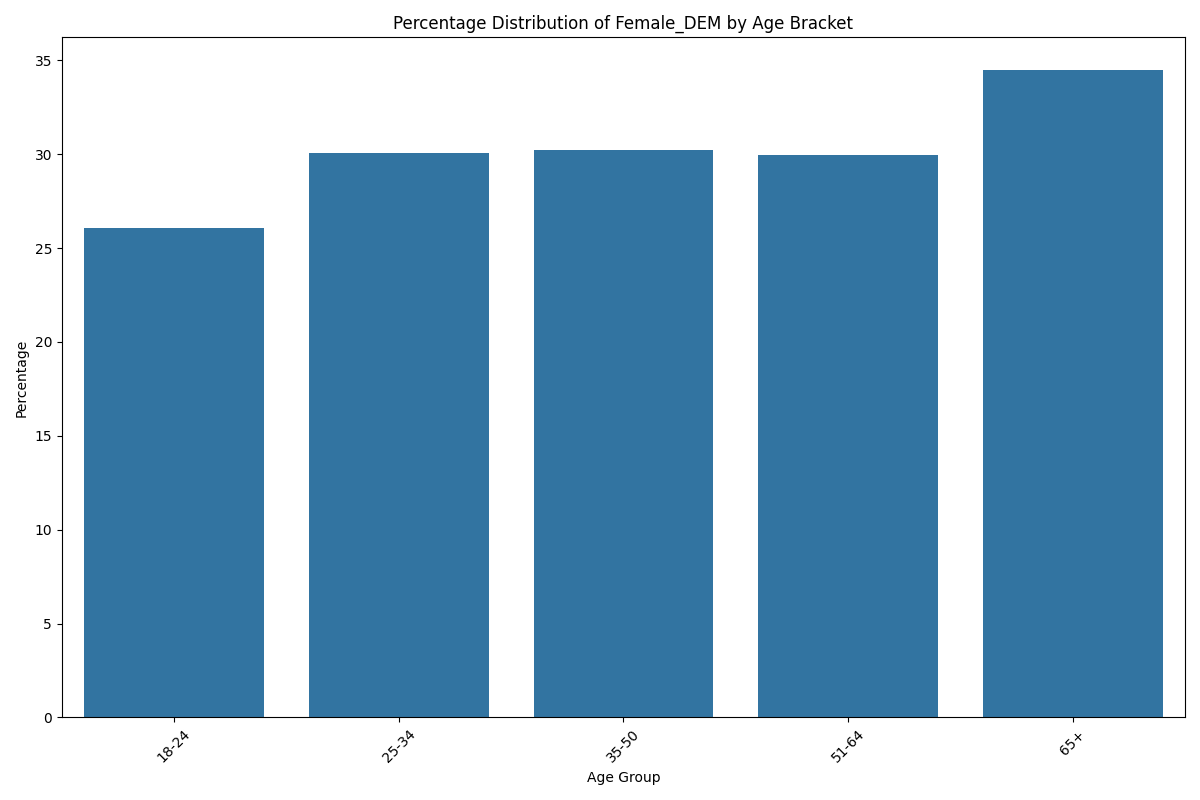
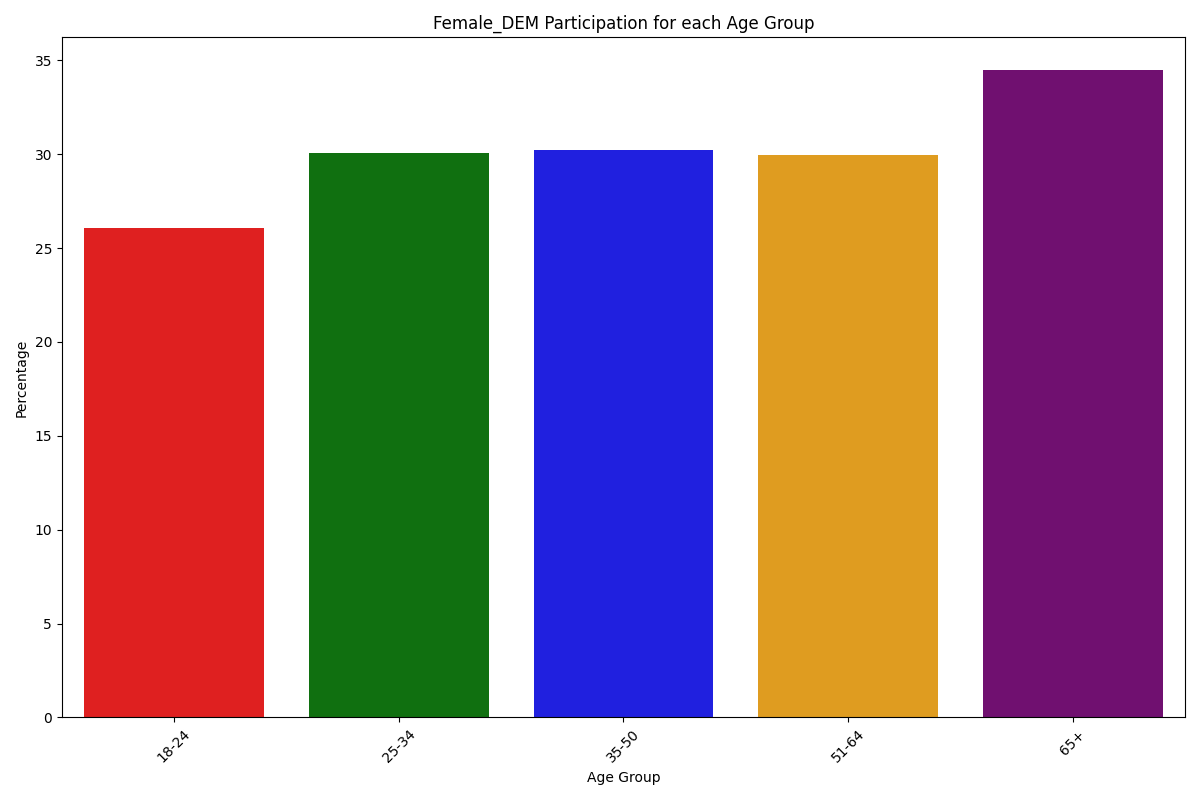
added more charts

diff --git a/voters/md_voter_file.txt/reshape_data4.py b/voters/md_voter_file.txt/reshape_data4.py
@@ -1,0 +1,78 @@
+import pandas as pd
+import matplotlib
+import matplotlib.pyplot as plt
+import seaborn as sns
+
+# Set the matplotlib backend to Agg for headless environments
+matplotlib.use('Agg')
+
+# Load the data from the CSV file
+df = pd.read_csv('agg_MD.csv')
+
+# Group the data by age bracket, gender, and party, then sum the counts
+grouped_df = df.groupby(['age_bracket', 'Gender', 'Party']).sum().reset_index()
+
+# Calculate total counts for each age bracket
+total_counts = grouped_df.groupby('age_bracket')['Count'].sum().reset_index()
+total_counts.rename(columns={'Count': 'Total'}, inplace=True)
+
+# Create a function to prepare the data for plotting
+def prepare_data(gender, parties):
+    # Filter the data for the specified gender and parties
+    filtered_df = grouped_df[
+        (grouped_df['Gender'] == gender) & (grouped_df['Party'].isin(parties))
+    ]
+
+    # Merge total counts with the filtered data
+    merged_df = pd.merge(filtered_df, total_counts, on='age_bracket')
+
+    # Calculate the percentage of each category relative to the total for each age bracket
+    merged_df['Percentage'] = (merged_df['Count'] / merged_df['Total']) * 100
+
+    # Create a new column for combined gender and party for easy plotting
+    merged_df['Category'] = merged_df['Gender'] + '_' + merged_df['Party']
+
+    return merged_df
+
+# Prepare data for each chart
+female_data = prepare_data(gender='Female', parties=['DEM', 'REP'])
+male_data = prepare_data(gender='Male', parties=['DEM', 'REP'])
+
+# Plot the data using seaborn
+plt.figure(figsize=(14, 16))
+
+# Create subplot for Female_DEM and Female_REP
+plt.subplot(2, 1, 1)
+sns.barplot(
+    data=female_data, 
+    x='age_bracket', 
+    y='Percentage', 
+    hue='Category',
+    palette={'Female_DEM': 'blue', 'Female_REP': 'red'}
+)
+plt.title('Higher Female REP and DEM Participation in Older Age Groups')
+plt.xticks(rotation=45)
+plt.ylabel('Percentage')
+plt.xlabel('Age Group')
+plt.legend(title='Category', bbox_to_anchor=(1.05, 1), loc='upper left')
+plt.tight_layout()
+
+# Create subplot for Male_DEM and Male_REP
+plt.subplot(2, 1, 2)
+sns.barplot(
+    data=male_data, 
+    x='age_bracket', 
+    y='Percentage', 
+    hue='Category',
+    palette={'Male_DEM': 'blue', 'Male_REP': 'red'}
+)
+plt.title('Balanced Male DEM and REP Participation Across Age Groups')
+plt.xticks(rotation=45)
+plt.ylabel('Percentage')
+plt.xlabel('Age Group')
+plt.legend(title='Category', bbox_to_anchor=(1.05, 1), loc='upper left')
+plt.tight_layout()
+
+# Save the plot to a file instead of displaying it
+plt.savefig('combined_gender_party_distribution_chart.png')
+print("Chart saved as 'combined_gender_party_distribution_chart.png'")

diff --git a/voters/md_voter_file.txt/reshape_data7.py b/voters/md_voter_file.txt/reshape_data7.py
@@ -16,34 +16,34 @@ grouped_df = df.groupby(['age_bracket', 'Gender', 'Party']).sum().reset_index()
 total_counts = grouped_df.groupby('age_bracket')['Count'].sum().reset_index()
 total_counts.rename(columns={'Count': 'Total'}, inplace=True)
 
-# Prepare data for Female_DEM
-female_dem_data = grouped_df[
-    (grouped_df['Gender'] == 'Female') & (grouped_df['Party'] == 'DEM')
+# Prepare data for Female_UNA
+female_una_data = grouped_df[
+    (grouped_df['Gender'] == 'Female') & (grouped_df['Party'] == 'UNA')
 ]
 
 # Merge total counts with the filtered data
-female_dem_merged = pd.merge(female_dem_data, total_counts, on='age_bracket')
+female_una_merged = pd.merge(female_una_data, total_counts, on='age_bracket')
 
-# Calculate the percentage of Female_DEM relative to the total for each age bracket
-female_dem_merged['Percentage'] = (female_dem_merged['Count'] / female_dem_merged['Total']) * 100
+# Calculate the percentage of Female_UNA relative to the total for each age bracket
+female_una_merged['Percentage'] = (female_una_merged['Count'] / female_una_merged['Total']) * 100
 
-# Define a custom color palette with distinct colors for each age group
-custom_palette = ['red', 'green', 'blue', 'orange', 'purple']
+# Define a uniform orange color palette
+uniform_palette = ['orange'] * len(female_una_merged['age_bracket'].unique())
 
 # Plot the data using seaborn
 plt.figure(figsize=(12, 8))
 sns.barplot(
-    data=female_dem_merged, 
+    data=female_una_merged, 
     x='age_bracket', 
     y='Percentage', 
-    palette=custom_palette
+    palette=uniform_palette
 )
-plt.title('Female_DEM Participation for each Age Group')
+plt.title('Female_UNA Participation in each Age Group')
 plt.xticks(rotation=45)
 plt.ylabel('Percentage')
 plt.xlabel('Age Group')
 plt.tight_layout()
 
 # Save the plot to a file instead of displaying it
-plt.savefig('female_dem_percentage_distribution_chart.png')
-print("Chart saved as 'female_dem_percentage_distribution_chart.png'")
+plt.savefig('female_una_percentage_distribution_chart.png')
+print("Chart saved as 'female_una_percentage_distribution_chart.png'")

diff --git a/voters/md_voter_file.txt/reshape_data8.py b/voters/md_voter_file.txt/reshape_data8.py
@@ -16,34 +16,34 @@ grouped_df = df.groupby(['age_bracket', 'Gender', 'Party']).sum().reset_index()
 total_counts = grouped_df.groupby('age_bracket')['Count'].sum().reset_index()
 total_counts.rename(columns={'Count': 'Total'}, inplace=True)
 
-# Prepare data for Female_DEM
-female_dem_data = grouped_df[
-    (grouped_df['Gender'] == 'Female') & (grouped_df['Party'] == 'DEM')
+# Prepare data for Male_UNA
+male_una_data = grouped_df[
+    (grouped_df['Gender'] == 'Male') & (grouped_df['Party'] == 'UNA')
 ]
 
 # Merge total counts with the filtered data
-female_dem_merged = pd.merge(female_dem_data, total_counts, on='age_bracket')
+male_una_merged = pd.merge(male_una_data, total_counts, on='age_bracket')
 
-# Calculate the percentage of Female_DEM relative to the total for each age bracket
-female_dem_merged['Percentage'] = (female_dem_merged['Count'] / female_dem_merged['Total']) * 100
+# Calculate the percentage of Male_UNA relative to the total for each age bracket
+male_una_merged['Percentage'] = (male_una_merged['Count'] / male_una_merged['Total']) * 100
 
-# Define a custom color palette with distinct colors for each age group
-custom_palette = ['red', 'green', 'blue', 'orange', 'purple']
+# Define a uniform green color palette
+uniform_palette = ['green'] * len(male_una_merged['age_bracket'].unique())
 
 # Plot the data using seaborn
 plt.figure(figsize=(12, 8))
 sns.barplot(
-    data=female_dem_merged, 
+    data=male_una_merged, 
     x='age_bracket', 
     y='Percentage', 
-    palette=custom_palette
+    palette=uniform_palette
 )
-plt.title('Female_DEM Participation for each Age Group')
+plt.title('Male_UNA Participation in each Age Group')
 plt.xticks(rotation=45)
 plt.ylabel('Percentage')
 plt.xlabel('Age Group')
 plt.tight_layout()
 
 # Save the plot to a file instead of displaying it
-plt.savefig('female_dem_percentage_distribution_chart.png')
-print("Chart saved as 'female_dem_percentage_distribution_chart.png'")
+plt.savefig('male_una_percentage_distribution_chart.png')
+print("Chart saved as 'male_una_percentage_distribution_chart.png'")

diff --git a/voters/md_voter_file.txt/reshape_data2.py b/voters/md_voter_file.txt/reshape_data2.py
@@ -16,34 +16,34 @@ grouped_df = df.groupby(['age_bracket', 'Gender', 'Party']).sum().reset_index()
 total_counts = grouped_df.groupby('age_bracket')['Count'].sum().reset_index()
 total_counts.rename(columns={'Count': 'Total'}, inplace=True)
 
-# Prepare data for Female_DEM
-female_dem_data = grouped_df[
-    (grouped_df['Gender'] == 'Female') & (grouped_df['Party'] == 'DEM')
+# Prepare data for Female_REP
+female_rep_data = grouped_df[
+    (grouped_df['Gender'] == 'Female') & (grouped_df['Party'] == 'REP')
 ]
 
 # Merge total counts with the filtered data
-female_dem_merged = pd.merge(female_dem_data, total_counts, on='age_bracket')
+female_rep_merged = pd.merge(female_rep_data, total_counts, on='age_bracket')
 
-# Calculate the percentage of Female_DEM relative to the total for each age bracket
-female_dem_merged['Percentage'] = (female_dem_merged['Count'] / female_dem_merged['Total']) * 100
+# Calculate the percentage of Female_REP relative to the total for each age bracket
+female_rep_merged['Percentage'] = (female_rep_merged['Count'] / female_rep_merged['Total']) * 100
 
 # Define a custom color palette with distinct colors for each age group
-custom_palette = ['red', 'green', 'blue', 'orange', 'purple']
+custom_palette = ['cyan', 'magenta', 'yellow', 'black', 'pink']
 
 # Plot the data using seaborn
 plt.figure(figsize=(12, 8))
 sns.barplot(
-    data=female_dem_merged, 
+    data=female_rep_merged, 
     x='age_bracket', 
     y='Percentage', 
     palette=custom_palette
 )
-plt.title('Female_DEM Participation for each Age Group')
+plt.title('Female_REP Participation for Each Age Group')
 plt.xticks(rotation=45)
 plt.ylabel('Percentage')
 plt.xlabel('Age Group')
 plt.tight_layout()
 
 # Save the plot to a file instead of displaying it
-plt.savefig('female_dem_percentage_distribution_chart.png')
-print("Chart saved as 'female_dem_percentage_distribution_chart.png'")
+plt.savefig('female_rep_percentage_distribution_chart.png')
+print("Chart saved as 'female_rep_percentage_distribution_chart.png'")

diff --git a/voters/md_voter_file.txt/reshape_data6.py b/voters/md_voter_file.txt/reshape_data6.py
@@ -16,34 +16,34 @@ grouped_df = df.groupby(['age_bracket', 'Gender', 'Party']).sum().reset_index()
 total_counts = grouped_df.groupby('age_bracket')['Count'].sum().reset_index()
 total_counts.rename(columns={'Count': 'Total'}, inplace=True)
 
-# Prepare data for Female_DEM
-female_dem_data = grouped_df[
-    (grouped_df['Gender'] == 'Female') & (grouped_df['Party'] == 'DEM')
+# Prepare data for Male_DEM
+male_dem_data = grouped_df[
+    (grouped_df['Gender'] == 'Male') & (grouped_df['Party'] == 'DEM')
 ]
 
 # Merge total counts with the filtered data
-female_dem_merged = pd.merge(female_dem_data, total_counts, on='age_bracket')
+male_dem_merged = pd.merge(male_dem_data, total_counts, on='age_bracket')
 
-# Calculate the percentage of Female_DEM relative to the total for each age bracket
-female_dem_merged['Percentage'] = (female_dem_merged['Count'] / female_dem_merged['Total']) * 100
+# Calculate the percentage of Male_DEM relative to the total for each age bracket
+male_dem_merged['Percentage'] = (male_dem_merged['Count'] / male_dem_merged['Total']) * 100
 
 # Define a custom color palette with distinct colors for each age group
-custom_palette = ['red', 'green', 'blue', 'orange', 'purple']
+custom_palette = ['violet', 'turquoise', 'salmon', 'olive', 'maroon']
 
 # Plot the data using seaborn
 plt.figure(figsize=(12, 8))
 sns.barplot(
-    data=female_dem_merged, 
+    data=male_dem_merged, 
     x='age_bracket', 
     y='Percentage', 
     palette=custom_palette
 )
-plt.title('Female_DEM Participation for each Age Group')
+plt.title('Distinct Colors for Each Age Group in Male_DEM Participation')
 plt.xticks(rotation=45)
 plt.ylabel('Percentage')
 plt.xlabel('Age Group')
 plt.tight_layout()
 
 # Save the plot to a file instead of displaying it
-plt.savefig('female_dem_percentage_distribution_chart.png')
-print("Chart saved as 'female_dem_percentage_distribution_chart.png'")
+plt.savefig('male_dem_percentage_distribution_chart.png')
+print("Chart saved as 'male_dem_percentage_distribution_chart.png'")

diff --git a/voters/md_voter_file.txt/reshape_data5.py b/voters/md_voter_file.txt/reshape_data5.py
@@ -16,34 +16,34 @@ grouped_df = df.groupby(['age_bracket', 'Gender', 'Party']).sum().reset_index()
 total_counts = grouped_df.groupby('age_bracket')['Count'].sum().reset_index()
 total_counts.rename(columns={'Count': 'Total'}, inplace=True)
 
-# Prepare data for Female_DEM
-female_dem_data = grouped_df[
-    (grouped_df['Gender'] == 'Female') & (grouped_df['Party'] == 'DEM')
+# Prepare data for Male_REP
+male_rep_data = grouped_df[
+    (grouped_df['Gender'] == 'Male') & (grouped_df['Party'] == 'REP')
 ]
 
 # Merge total counts with the filtered data
-female_dem_merged = pd.merge(female_dem_data, total_counts, on='age_bracket')
+male_rep_merged = pd.merge(male_rep_data, total_counts, on='age_bracket')
 
-# Calculate the percentage of Female_DEM relative to the total for each age bracket
-female_dem_merged['Percentage'] = (female_dem_merged['Count'] / female_dem_merged['Total']) * 100
+# Calculate the percentage of Male_REP relative to the total for each age bracket
+male_rep_merged['Percentage'] = (male_rep_merged['Count'] / male_rep_merged['Total']) * 100
 
 # Define a custom color palette with distinct colors for each age group
-custom_palette = ['red', 'green', 'blue', 'orange', 'purple']
+custom_palette = ['brown', 'teal', 'lime', 'navy', 'gold']
 
 # Plot the data using seaborn
 plt.figure(figsize=(12, 8))
 sns.barplot(
-    data=female_dem_merged, 
+    data=male_rep_merged, 
     x='age_bracket', 
     y='Percentage', 
     palette=custom_palette
 )
-plt.title('Female_DEM Participation for each Age Group')
+plt.title('Male_REP Participation in each Age Group')
 plt.xticks(rotation=45)
 plt.ylabel('Percentage')
 plt.xlabel('Age Group')
 plt.tight_layout()
 
 # Save the plot to a file instead of displaying it
-plt.savefig('female_dem_percentage_distribution_chart.png')
-print("Chart saved as 'female_dem_percentage_distribution_chart.png'")
+plt.savefig('male_rep_percentage_distribution_chart.png')
+print("Chart saved as 'male_rep_percentage_distribution_chart.png'")

diff --git a/voters/md_voter_file.txt/reshape_data3.py b/voters/md_voter_file.txt/reshape_data3.py
@@ -1,0 +1,46 @@
+import pandas as pd
+import matplotlib
+import matplotlib.pyplot as plt
+import seaborn as sns
+
+# Set the matplotlib backend to Agg for headless environments
+matplotlib.use('Agg')
+
+# Load the data from the CSV file
+df = pd.read_csv('agg_MD.csv')
+
+# Group the data by age bracket, gender, and party, then sum the counts
+grouped_df = df.groupby(['age_bracket', 'Gender', 'Party']).sum().reset_index()
+
+# Calculate total counts for each age bracket
+total_counts = grouped_df.groupby('age_bracket')['Count'].sum().reset_index()
+total_counts.rename(columns={'Count': 'Total'}, inplace=True)
+
+# Filter the data to include only the specified categories
+filtered_df = grouped_df[
+    ((grouped_df['Gender'] == 'Female') & (grouped_df['Party'].isin(['DEM', 'REP']))) |
+    ((grouped_df['Gender'] == 'Male') & (grouped_df['Party'].isin(['DEM', 'REP'])))
+]
+
+# Merge total counts with the filtered data
+merged_df = pd.merge(filtered_df, total_counts, on='age_bracket')
+
+# Calculate the percentage of each category relative to the total for each age bracket
+merged_df['Percentage'] = (merged_df['Count'] / merged_df['Total']) * 100
+
+# Create a new column for combined gender and party for easy plotting
+merged_df['Category'] = merged_df['Gender'] + '_' + merged_df['Party']
+
+# Plot the data using seaborn
+plt.figure(figsize=(14, 8))
+sns.barplot(data=merged_df, x='age_bracket', y='Percentage', hue='Category')
+plt.title('Percentage Distribution by Age Bracket for Selected Categories')
+plt.xticks(rotation=45)
+plt.ylabel('Percentage')
+plt.xlabel('Age Group')
+plt.legend(title='Category', bbox_to_anchor=(1.05, 1), loc='upper left')
+plt.tight_layout()
+
+# Save the plot to a file instead of displaying it
+plt.savefig('selected_categories_percentage_distribution_chart.png')
+print("Chart saved as 'selected_categories_percentage_distribution_chart.png'")
